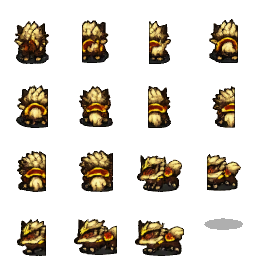
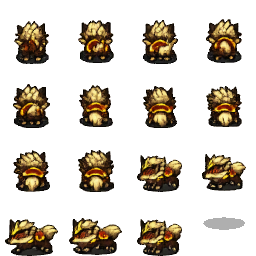
skin thu cuoi: sua chon frame nguon cho 3 con
Anh 9 nguoi choi gui (tien loc chay xuong, mat mat) la do bang sprite AI don HAI
goc nhin vao CUNG MOT HANG: hang "Run Down" cua tien loc thuc ra la 3 con nhin
truoc roi 3 con nhin sau. Chia 5 frame deu ca hang thi slot 0-1 (dung yen) lay
duoc mat, con slot 2-3-4 (chay) roi vao 3 con nhin sau -> chay xuong thanh mat mat.

Them tuy chon --oxuong / --olen / --ongang de chon khoang o trong hang, va lay
frame theo vong lap thay vi chia deu (dung quy uoc linh thu that: heo bang dung
5 anh lien tiep, slot 0-1 dung yen, slot 2-3-4 chay).

Sua ba con:
  tien loc  : botrai 180 -> 20 de khong mat con dau hang, roi --oxuong=0-2
              (3 con nhin truoc), --olen=1-5, --ongang=1-4
  phuc thu  : bo --cotxuong=5, hang do chi co 4 o nen ep 5 lam frame 1, 2 ra
              dai mong
  gau truc  : --oxuong=0-2 --olen=0-2, ba con cuoi hang bi ve dau teo

Bo het cac --cot*: do khe tu dong lam dung roi tu khi loc theo kenh trong suot,
ep so o chi la di san tu luc mat na con sai.

File du lieu frame khong doi mot byte nao (891102c844832322238fc11dc33f6cb1) nen
lan nay chi can dang nhap lai, khong phai tat app.

diff --git a/tools/TaoEffThuCuoi.java b/tools/TaoEffThuCuoi.java
@@ -106,6 +106,11 @@ public class TaoEffThuCuoi {
         // trong mot hang dinh vao nhau (bong, trang tri cham nhau) nen do khe trong de
         // tach se ra sai so frame; chi dinh tay thi chia deu, chac an voi bang ke luoi.
         final int[] soCot = {0, 0, 0};
+        // Khoang o duoc dung trong hang, dang --oxuong=0-2. Can co vi bang sprite AI
+        // nhieu khi don HAI goc nhin vao cung mot hang (tien loc: hang "Down" thuc ra la
+        // 3 con nhin truoc roi 3 con nhin sau), lay ca hang thi frame chay bi mat mat.
+        final int[] oTu = {0, 0, 0};
+        final int[] oDen = {-1, -1, -1};
         // Do dam vien: sprite goc trong game deu co vien toi nen doc ro o co nho, con
         // anh AI thu nho thi vien mem, nhin nhoe. 0 = khong ve vien.
         double damVien = 0.45;
@@ -122,6 +127,9 @@ public class TaoEffThuCuoi {
             else if (a.startsWith("--cotxuong=")) soCot[0] = Integer.parseInt(a.substring(11));
             else if (a.startsWith("--cotlen=")) soCot[1] = Integer.parseInt(a.substring(9));
             else if (a.startsWith("--cotngang=")) soCot[2] = Integer.parseInt(a.substring(11));
+            else if (a.startsWith("--oxuong=")) docKhoang(a.substring(9), oTu, oDen, 0);
+            else if (a.startsWith("--olen=")) docKhoang(a.substring(7), oTu, oDen, 1);
+            else if (a.startsWith("--ongang=")) docKhoang(a.substring(9), oTu, oDen, 2);
             else if (a.startsWith("--vien=")) damVien = Double.parseDouble(a.substring(7));
             else if (a.equals("--khonglat")) lat = false;
         }
@@ -169,11 +177,20 @@ public class TaoEffThuCuoi {
             // thu dung dung cho ca hai ben. Moc DOC thi lay chung ca hang: moi frame
             // trong hang dung tren cung mot vach dat, nho vay giu duoc nhip nhun len
             // xuong tu nhien ma khong bi giat.
-            final int soO = cot.size();
+            final int tu = Math.max(0, oTu[nhom]);
+            final int den = oDen[nhom] < 0 ? cot.size() - 1 : Math.min(oDen[nhom], cot.size() - 1);
+            final int soO = den - tu + 1;
+            if (soO < 1) {
+                System.out.println("Khoang o cua nhom " + nhom + " rong");
+                return;
+            }
             int cy2 = -1;
             for (int f = 0; f < SO_GOC; f++) {
-                // Lay deu SO_GOC frame trong hang de khong cat mat cuoi vong lap.
-                final int[] c = cot.get(f * soO / SO_GOC);
+                // Lay SO_GOC frame LIEN TIEP roi lap lai vong tron neu khoang ngan hon.
+                // Lay lien tiep dung theo quy uoc cua linh thu that: heo bang dung 5 anh
+                // lien tiep, slot 0-1 la dung yen, slot 2-3-4 la chay. Neu khoang chi co
+                // 3 o thi thanh 0,1,2,0,1 — ba frame chay van khac nhau het.
+                final int[] c = cot.get(tu + f % soO);
                 final boolean[][] rieng = locConThu(coHinh, c[0], c[1], h[0], h[1]);
                 final int[] k = CatSpriteSheet.khungBao(rieng, c[0], c[1], h[0], h[1]);
                 if (k == null) continue;
@@ -187,8 +204,9 @@ public class TaoEffThuCuoi {
                 return;
             }
             mocY[nhom] = cy2;
-            System.out.println("  nhom " + nhom + " (hang " + hang[nhom] + "): "
-                    + soO + " frame nguon, vach dat y=" + cy2);
+            System.out.println("  nhom " + nhom + " (hang " + hang[nhom] + ", o " + tu + ".."
+                    + den + " trong " + cot.size() + "): " + soO + " frame nguon, vach dat y="
+                    + cy2);
         }
         if (caoNhat == 0) {
             System.out.println("Khong lay duoc frame nao");
@@ -355,6 +373,18 @@ public class TaoEffThuCuoi {
                 + caoThuc + ") + d_effect/" + id + " (" + bos.size()
                 + " byte, 21 frame), ti le " + String.format("%.3f", tiLe)
                 + " -> id gui client = " + (8700 + id));
+    }
+
+    /** Doc tham so dang "0-2" hoac "3" thanh khoang o. */
+    private static void docKhoang(final String s, final int[] tu, final int[] den, final int nhom) {
+        final int gach = s.indexOf('-');
+        if (gach < 0) {
+            tu[nhom] = Integer.parseInt(s.trim());
+            den[nhom] = tu[nhom];
+        } else {
+            tu[nhom] = Integer.parseInt(s.substring(0, gach).trim());
+            den[nhom] = Integer.parseInt(s.substring(gach + 1).trim());
+        }
     }
 
     /**
